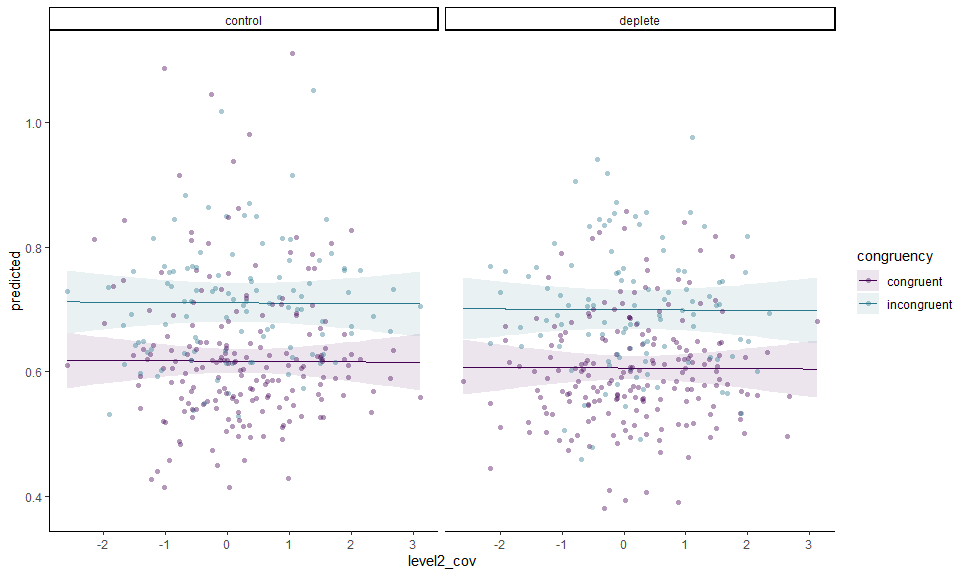
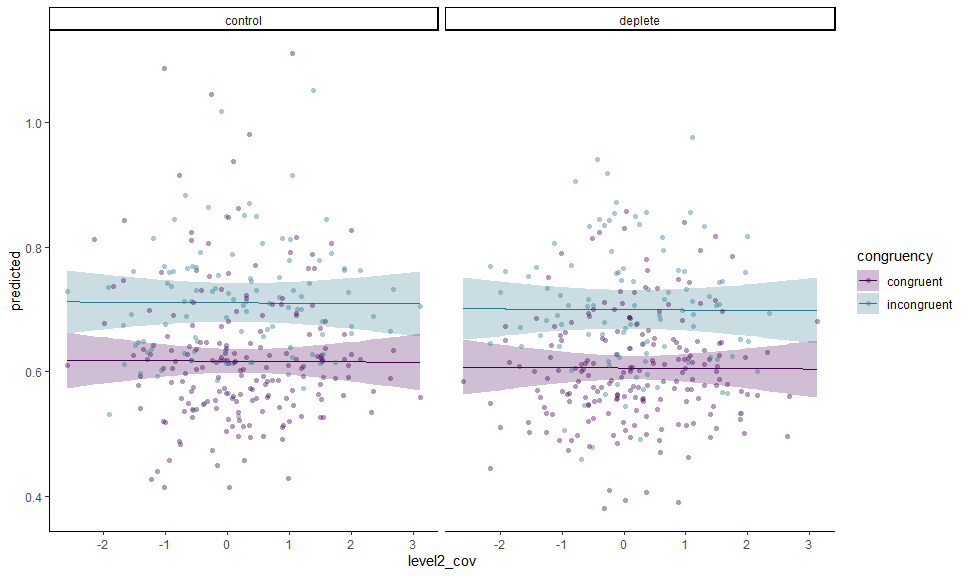
default ribbon color and alpha

Changed region(s): [[0.4654, 0.4688, 0.9307, 0.6875], [0.062, 0.4688, 0.4343, 0.6875]]

diff --git a/README.md b/README.md
@@ -79,9 +79,26 @@ Here is another example, with a continuous variable on x:
 ``` r
 gge <- ggpredict(fit, c("disp [all]", "hp", "am"))
 
+autoplot(
+  gge,
+  aes(color = NULL, fill = NULL),
+  rows = vars(hp),
+  labeller = labeller(am = as_labeller(c("0" = "Automatic", "1" = "Manual")),
+                      hp = label_both)
+) +
+  # Expected + CI
+  geom_CI_ribbon(fill = NA, color = "black", linetype = "dashed") +
+  geom_expected_line() +
+  theme_bw() +
+  labs(y = "Miles/Gallon", x = "Displacement")
+```
+
+![](README_files/figure-gfm/custom2-1.png)<!-- -->
+
+``` r
 (p <- autoplot(gge, labeller = labeller(am = as_labeller(c("0" = "Automatic", "1" = "Manual")))) +
     # Expected + CI
-    geom_CI_ribbon(color = NA, alpha = 0.2) +
+    geom_CI_ribbon() +
     geom_expected_line() +
     # Scales and theme
     scale_color_viridis_c("Horsepower", 
@@ -91,7 +108,7 @@ gge <- ggpredict(fit, c("disp [all]", "hp", "am"))
     labs(y = "Miles/Gallon", x = "Displacement"))
 ```
 
-![](README_files/figure-gfm/custom2-1.png)<!-- -->
+![](README_files/figure-gfm/custom2-2.png)<!-- -->
 
 ### Adding Raw/Residualized Data
 
@@ -137,7 +154,7 @@ gge <- ggpredict(fit, terms = c("disp [100:500, by = 70]", "cyl"))
 autoplot(gge, cols = vars(cyl),
          labeller = labeller(cyl = as_labeller(c("4" = "Cyl: 4", "6" = 6, "8" = 8)))) + 
   # Expected + CI
-  geom_CI_ribbon(color = NA, alpha = 0.4) + 
+  geom_CI_ribbon() + 
   geom_expected_line() +
   # Boxplot of partial residuals
   layer_fit_data(aes(group = interaction(disp, cyl)), 
@@ -337,7 +354,7 @@ gge <- ggemmeans(m, c("level2_cov [all]", "congruency", "condition"))
 
 autoplot(gge) +
   # Expected values + CI
-  geom_CI_ribbon(color = NA, alpha = 0.1) +
+  geom_CI_ribbon() +
   geom_expected_line() +
   # Data
   layer_fit_data(collapse.group = "pno", residualize = TRUE,
